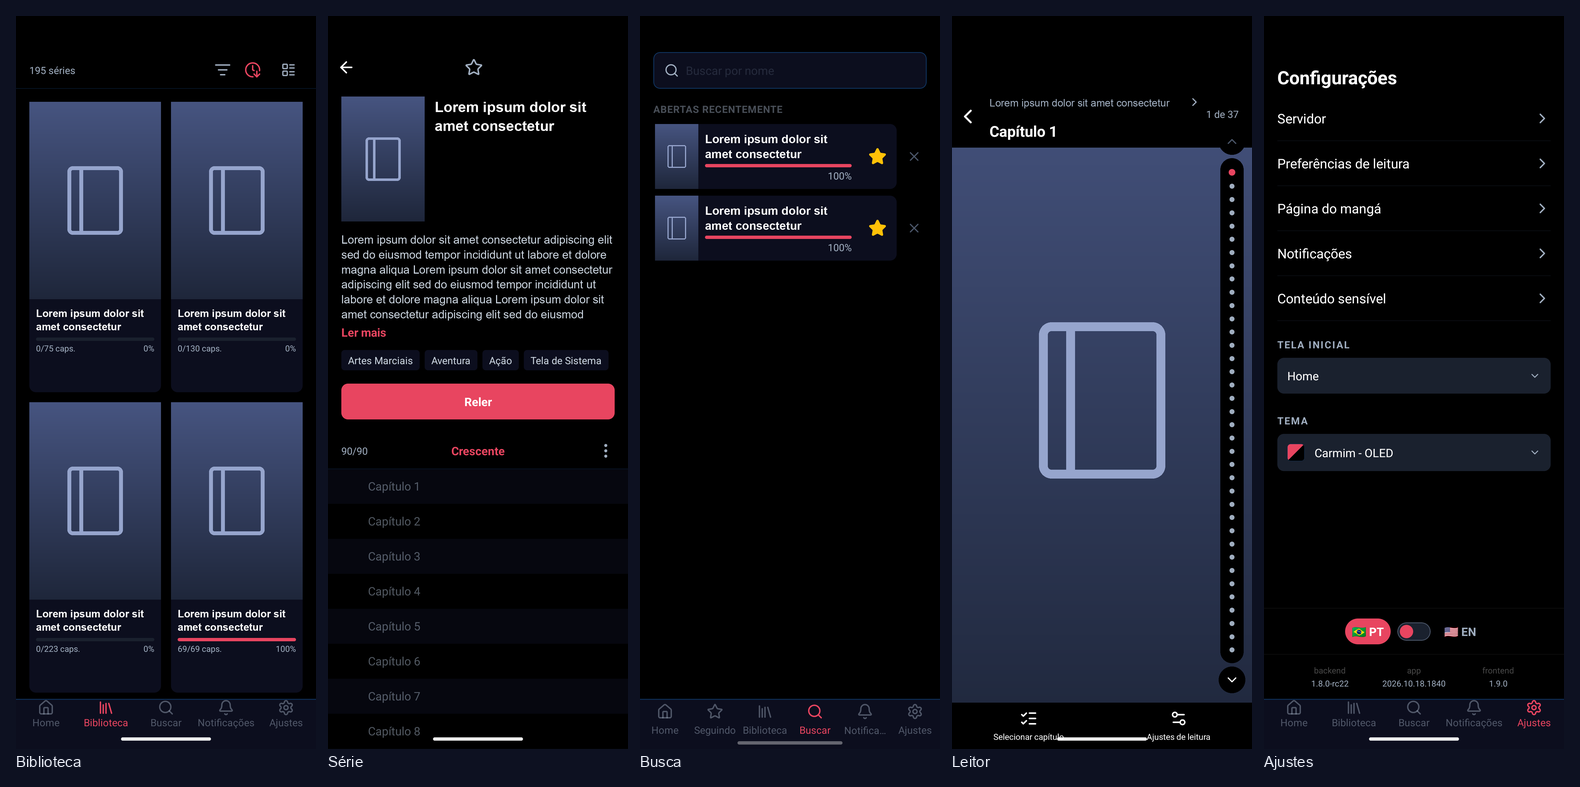
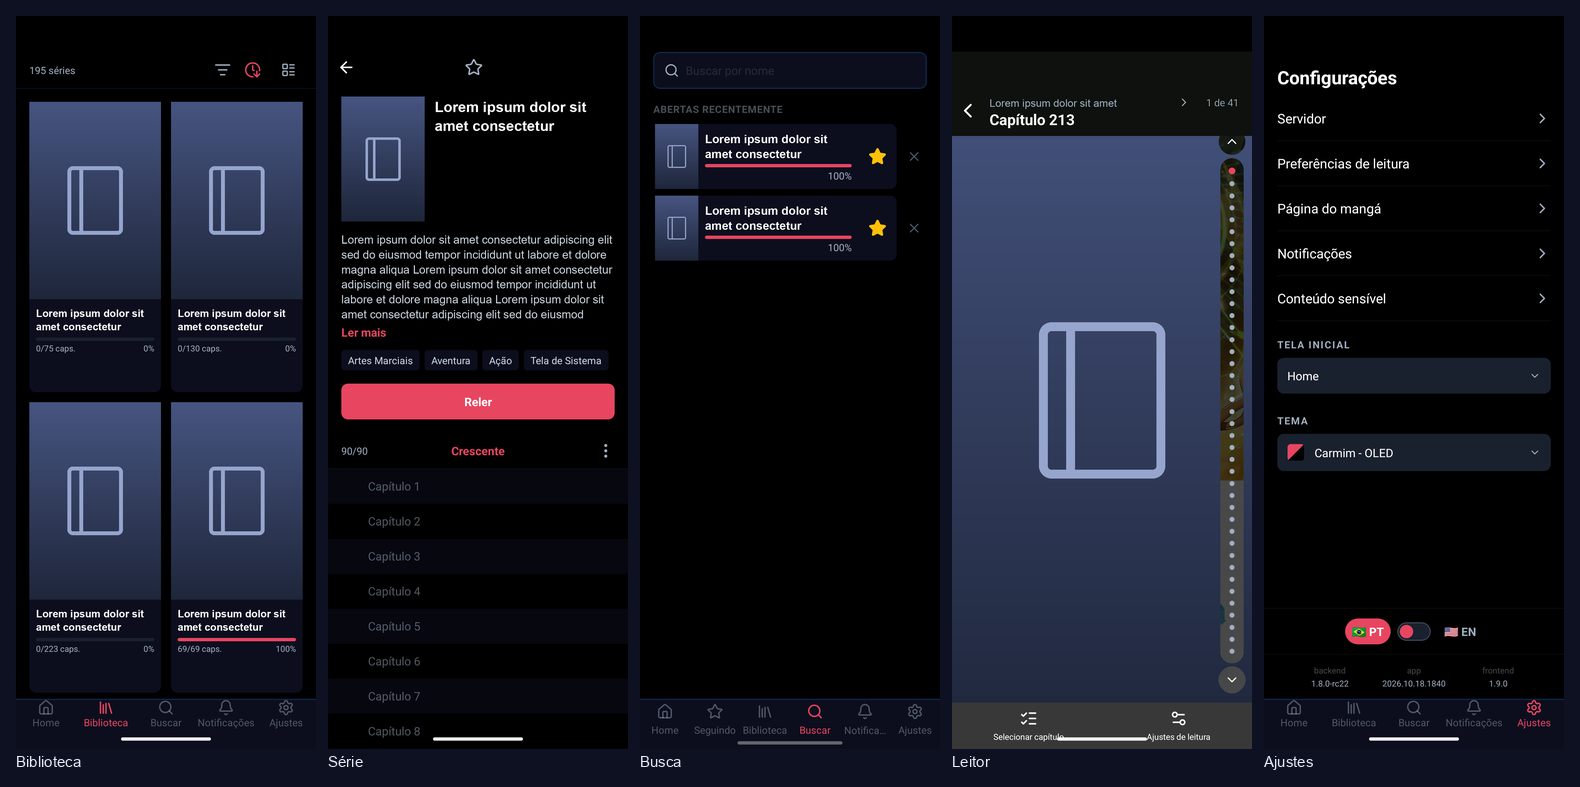
docs(screenshots): telas principais em cada um dos 12 temas
84 imagens em by-theme/<tema>/ (início, biblioteca, série, leitor de mangá, leitor de novel, busca e ajustes) e a matriz by-theme/overview.png, tiradas no emulador por make screenshots THEMES=1. O leitor de mangá com controles volta a ser tirado com o cabeçalho achatado, sem a arte da página aparecendo por baixo.

INDEX.md ganha a seção por tema; grid e hero do README são refeitos.

Changed region(s): [[0.5892, 0.122, 0.8063, 0.9759]]

diff --git a/docs/external/screenshots/INDEX.md b/docs/external/screenshots/INDEX.md
@@ -16,6 +16,26 @@ tab and a search history; the emulator used for the rest has neither.
 Regenerate the grid with `python3 scripts/build-screenshot-grid.py` after adding a screenshot —
 the file list and its captions live in that script, not here.
 
+## By theme
+
+The main screens (home, library, series, both readers, search, settings) in every theme, from
+`make screenshots EMULATOR=1 THEMES=1`: `by-theme/<theme>/<screen>.png`, with the theme in the registry's
+key form (`crimson-oled`). [by-theme/overview.png](by-theme/overview.png) lays them all out as one matrix.
+
+| File | Description |
+|------|-------------|
+| [by-theme/overview.png](by-theme/overview.png) | Every theme against every main screen |
+| `by-theme/<theme>/home.png` | Home |
+| `by-theme/<theme>/library-grid-recent.png` | Library, grid view |
+| `by-theme/<theme>/series-detail-full.png` | Series detail |
+| `by-theme/<theme>/reader-manga-overlay.png` | Manga reader with controls |
+| `by-theme/<theme>/reader-novel-overlay.png` | Novel reader with controls |
+| `by-theme/<theme>/search-results.png` | Search results |
+| `by-theme/<theme>/config-main.png` | Settings |
+
+The set of themes and of screens is not listed by hand: `make check-screenshots` fails when a theme in
+the registry is missing any of them. Regenerate the matrix with `python3 scripts/build-theme-matrix.py`.
+
 ## Home
 
 | File | Description |
